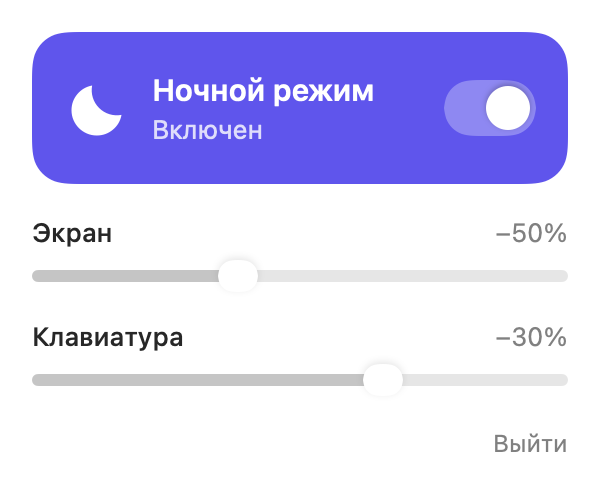
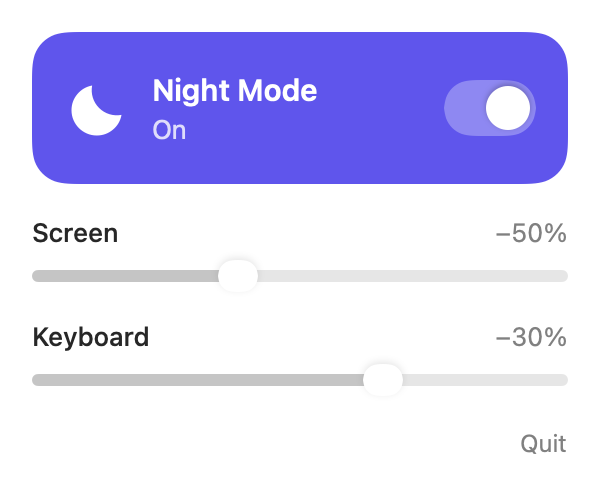
English interface and a downloadable build
The panel, tooltip and log message are now in English, and README covers
installing from the release zip. A downloaded app has no build.sh to set
up autostart, so the app writes the same LaunchAgent itself, skipping
translocated copies whose path won't survive a restart. A second copy now
quits at launch instead of fighting the first over the screen. build.sh
gets --zip for the release archive.

diff --git a/Sources/Panel.swift b/Sources/Panel.swift
@@ -31,13 +31,13 @@ struct PanelContent: View {
         VStack(spacing: 16) {
             PowerButton(isOn: isOn, action: toggle)
             VStack(spacing: 14) {
-                LevelSlider(title: "Экран", value: $screenDim, range: NightMode.screenRange)
-                LevelSlider(title: "Клавиатура", value: $keyboardDim, range: NightMode.keyboardRange)
+                LevelSlider(title: "Screen", value: $screenDim, range: NightMode.screenRange)
+                LevelSlider(title: "Keyboard", value: $keyboardDim, range: NightMode.keyboardRange)
             }
             .opacity(isOn ? 1 : 0.65)
             HStack {
                 Spacer()
-                Button("Выйти") { NSApp.terminate(nil) }
+                Button("Quit") { NSApp.terminate(nil) }
                     .buttonStyle(.plain)
                     .font(.system(size: 12))
                     .foregroundStyle(.secondary)
@@ -63,9 +63,9 @@ private struct PowerButton: View {
                 Image(nsImage: moon(filled: isOn, size: 30))
                     .renderingMode(.template)
                 VStack(alignment: .leading, spacing: 2) {
-                    Text("Ночной режим")
+                    Text("Night Mode")
                         .font(.system(size: 15, weight: .semibold))
-                    Text(isOn ? "Включен" : "Выключен")
+                    Text(isOn ? "On" : "Off")
                         .font(.system(size: 13))
                         .opacity(0.8)
                 }
@@ -81,8 +81,8 @@ private struct PowerButton: View {
         .buttonStyle(PressStyle())
         .onHover { isHovered = $0 }
         .animation(.easeOut(duration: 0.18), value: isOn)
-        .accessibilityLabel("Ночной режим")
-        .accessibilityValue(isOn ? "Включен" : "Выключен")
+        .accessibilityLabel("Night Mode")
+        .accessibilityValue(isOn ? "On" : "Off")
     }
 }
 
@@ -127,7 +127,7 @@ private struct LevelSlider: View {
                 Text(title)
                     .font(.system(size: 13, weight: .medium))
                 Spacer()
-                Text(value < 0.005 ? "минимум" : "−\(Int((value * 100).rounded()))%")
+                Text(value < 0.005 ? "minimum" : "−\(Int((value * 100).rounded()))%")
                     .font(.system(size: 13).monospacedDigit())
                     .foregroundStyle(.secondary)
             }

diff --git a/Sources/LoginItem.swift b/Sources/LoginItem.swift
@@ -1,0 +1,29 @@
+import Foundation
+
+// Автозапуск для скачанной сборки: тот же LaunchAgent, что ставит build.sh --install.
+// launchd подхватит файл при следующем входе в систему.
+enum LoginItem {
+    static func install() {
+        // Из карантина macOS запускает временную копию: ее путь после перезагрузки нерабочий.
+        guard let label = Bundle.main.bundleIdentifier,
+              let executable = Bundle.main.executablePath,
+              !executable.contains("/AppTranslocation/") else { return }
+        let url = FileManager.default.homeDirectoryForCurrentUser
+            .appendingPathComponent("Library/LaunchAgents/\(label).plist")
+        if let data = try? Data(contentsOf: url),
+           let current = try? PropertyListSerialization.propertyList(from: data, format: nil) as? [String: Any],
+           (current["ProgramArguments"] as? [String])?.first == executable { return }
+
+        let plist: [String: Any] = [
+            "Label": label,
+            "ProgramArguments": [executable],
+            "RunAtLoad": true,
+            "KeepAlive": ["SuccessfulExit": false],
+            "LimitLoadToSessionType": "Aqua",
+            "ProcessType": "Interactive",
+        ]
+        guard let data = try? PropertyListSerialization.data(fromPropertyList: plist, format: .xml, options: 0) else { return }
+        try? FileManager.default.createDirectory(at: url.deletingLastPathComponent(), withIntermediateDirectories: true)
+        try? data.write(to: url, options: .atomic)
+    }
+}

diff --git a/Sources/main.swift b/Sources/main.swift
@@ -14,8 +14,14 @@ final class AppDelegate: NSObject, NSApplicationDelegate {
     private var outsideClickMonitor: Any?
 
     func applicationDidFinishLaunching(_ notification: Notification) {
+        // Второй экземпляр спорил бы с первым за экран.
+        let same = NSRunningApplication.runningApplications(withBundleIdentifier: Bundle.main.bundleIdentifier ?? "")
+        if same.contains(where: { $0.processIdentifier != getpid() }) {
+            NSApp.terminate(nil)
+            return
+        }
         guard let screen = Screen() else {
-            NSLog("DisplayServices недоступен")
+            NSLog("DisplayServices is unavailable")
             NSApp.terminate(nil)
             return
         }
@@ -35,6 +41,7 @@ final class AppDelegate: NSObject, NSApplicationDelegate {
         updateIcon()
 
         installKeyTap()
+        LoginItem.install()
     }
 
     func applicationWillTerminate(_ notification: Notification) {
@@ -90,7 +97,7 @@ final class AppDelegate: NSObject, NSApplicationDelegate {
 
     private func updateIcon() {
         statusItem.button?.image = moon(filled: night.isOn)
-        statusItem.button?.toolTip = night.isOn ? "Ночной режим включен" : "Ночной режим выключен"
+        statusItem.button?.toolTip = night.isOn ? "Night Mode is on" : "Night Mode is off"
         statusItem.button?.setAccessibilityLabel(statusItem.button?.toolTip)
     }
 }

diff --git a/README.md b/README.md
@@ -10,6 +10,10 @@
 </p>
 
 <p align="center">
+  <a href="https://github.com/donsamoylov/macbook-night-mode/releases/latest/download/NightMode.zip"><img src="https://img.shields.io/github/v/release/donsamoylov/macbook-night-mode?label=Download%20for%20Mac&style=for-the-badge&labelColor=5856d6&color=6f6ee8" alt="Download Night Mode for Mac"></a>
+</p>
+
+<p align="center">
   <img src="https://img.shields.io/badge/macOS-tested%20on%2027-141b2e" alt="Tested on macOS 27">
   <img src="https://img.shields.io/badge/Apple%20Silicon-MacBook-141b2e" alt="For Apple Silicon MacBooks">
   <img src="https://img.shields.io/badge/license-MIT-141b2e" alt="MIT license">
@@ -36,7 +40,21 @@ At night the lowest brightness on a MacBook is still too bright. One more press 
 
 ## Install
 
-Night Mode is built from source for now, there is no downloadable app yet. You need an Apple Silicon MacBook and the Xcode Command Line Tools (not full Xcode):
+You need a MacBook with Apple Silicon.
+
+1. [Download NightMode.zip](https://github.com/donsamoylov/macbook-night-mode/releases/latest/download/NightMode.zip) and unzip it.
+2. Move **Night Mode** to your Applications folder.
+3. Open it. The first time, macOS says it can't verify the developer, because Night Mode isn't notarized by Apple. Click **Done**, open **System Settings ▸ Privacy & Security**, scroll down and click **Open Anyway**. Or run once:
+   ```bash
+   xattr -dr com.apple.quarantine "/Applications/Night Mode.app"
+   ```
+4. Look for the moon in the menu bar. If the menu bar is full, it can hide behind the notch.
+
+From then on it starts at login and comes back after a crash. macOS may show a notice about a new background item. To stop it starting at login, turn it off in **System Settings ▸ General ▸ Login Items**.
+
+### Build from source
+
+You need the Xcode Command Line Tools (not full Xcode):
 
 ```bash
 xcode-select --install
@@ -50,7 +68,7 @@ git clone https://github.com/donsamoylov/macbook-night-mode.git
 cd macbook-night-mode && ./build.sh --install
 ```
 
-This puts the app in `~/Applications/Night Mode.app` and adds a LaunchAgent, so it starts at login and comes back after a crash. No admin password is needed.
+This puts the app in `~/Applications/Night Mode.app` and starts it. No admin password is needed.
 
 ## How to use
 
@@ -58,7 +76,7 @@ This puts the app in `~/Applications/Night Mode.app` and adds a LaunchAgent, so 
 2. Press the big button.
 3. Drag the sliders. The right edge is the plain system minimum, further left is darker.
 
-The interface is in Russian for now: Ночной режим = Night Mode, Включен / Выключен = On / Off, Экран = Screen, Клавиатура = Keyboard, Выйти = Quit. Quitting keeps the app closed until your next login.
+**Quit** keeps the app closed until your next login.
 
 Set the levels in the room where you will use them. Both sliders start at −30%. The screen slider lowers the signal, not the light directly, so −50% is only about a fifth of the light at the minimum (an estimate for gamma 2.2), and that looks black in a lit room.
 
@@ -106,7 +124,7 @@ It is about 700 lines of Swift with no dependencies.
 
 ## Uninstall
 
-Turn the mode off and press Выйти in the panel, then:
+Turn the mode off and press **Quit** in the panel, then run these two commands. The first one may report an error if you haven't logged in again since installing, and that's fine.
 
 ```bash
 launchctl bootout gui/$UID/io.github.donsamoylov.nightmode
@@ -116,9 +134,7 @@ launchctl bootout gui/$UID/io.github.donsamoylov.nightmode
 rm ~/Library/LaunchAgents/io.github.donsamoylov.nightmode.plist
 ```
 
-```bash
-rm -rf ~/Applications/"Night Mode.app"
-```
+Then move **Night Mode** to the Trash.
 
 ## Credits
 
@@ -146,4 +162,10 @@ See [THIRD_PARTY_NOTICES.md](THIRD_PARTY_NOTICES.md). Night Mode is an independe
 - **Всегда под рукой:** запускается при входе в систему, живет в верхнем меню, значка в Dock нет.
 - **Без сети:** ни учетной записи, ни аналитики.
 
-Установка: сборка из исходников, команды в разделе [Install](#install). Нужны Mac на Apple Silicon и Command Line Tools. Проверено на MacBook Pro с M5 Pro и macOS 27, на других моделях не проверялось. Приложение использует закрытые API macOS, поэтому обновление системы может его сломать.
+**Установка.** [Скачайте NightMode.zip](https://github.com/donsamoylov/macbook-night-mode/releases/latest/download/NightMode.zip), распакуйте, перенесите приложение в папку «Программы» и откройте. Приложение не заверено у Apple, поэтому при первом запуске macOS скажет, что не может проверить разработчика. Откройте **Системные настройки ▸ Конфиденциальность и безопасность**, прокрутите вниз и нажмите **Все равно открыть**. Или выполните один раз:
+
+```bash
+xattr -dr com.apple.quarantine "/Applications/Night Mode.app"
+```
+
+Интерфейс на английском. Нужен MacBook на Apple Silicon. Проверено на MacBook Pro с M5 Pro и macOS 27, на других моделях не проверялось. Приложение использует закрытые API macOS, поэтому обновление системы может его сломать.
